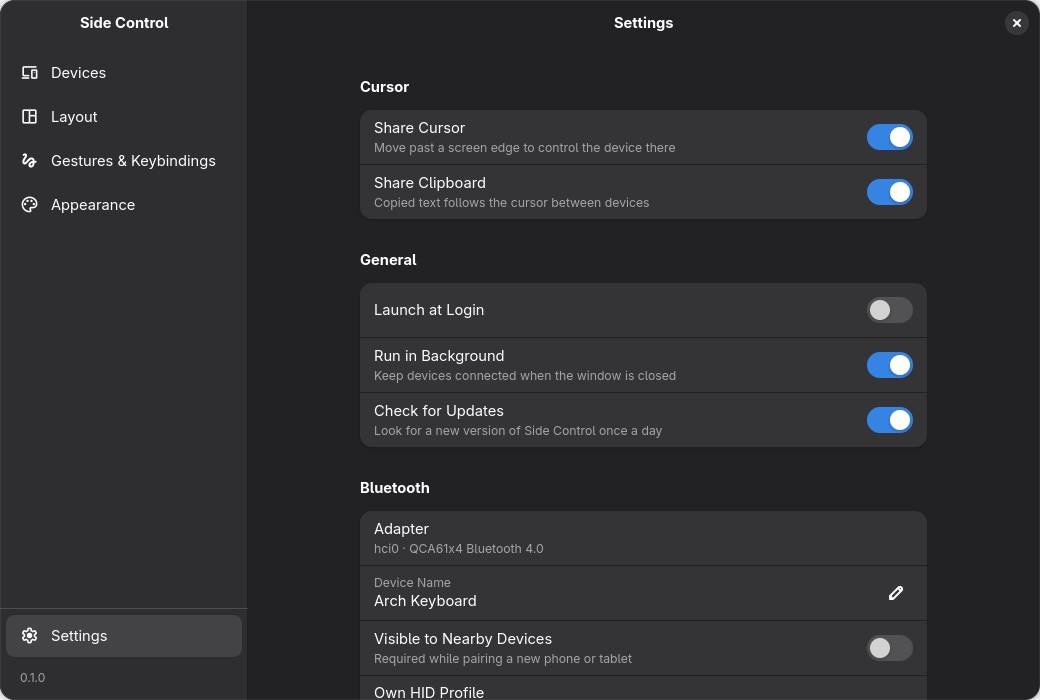
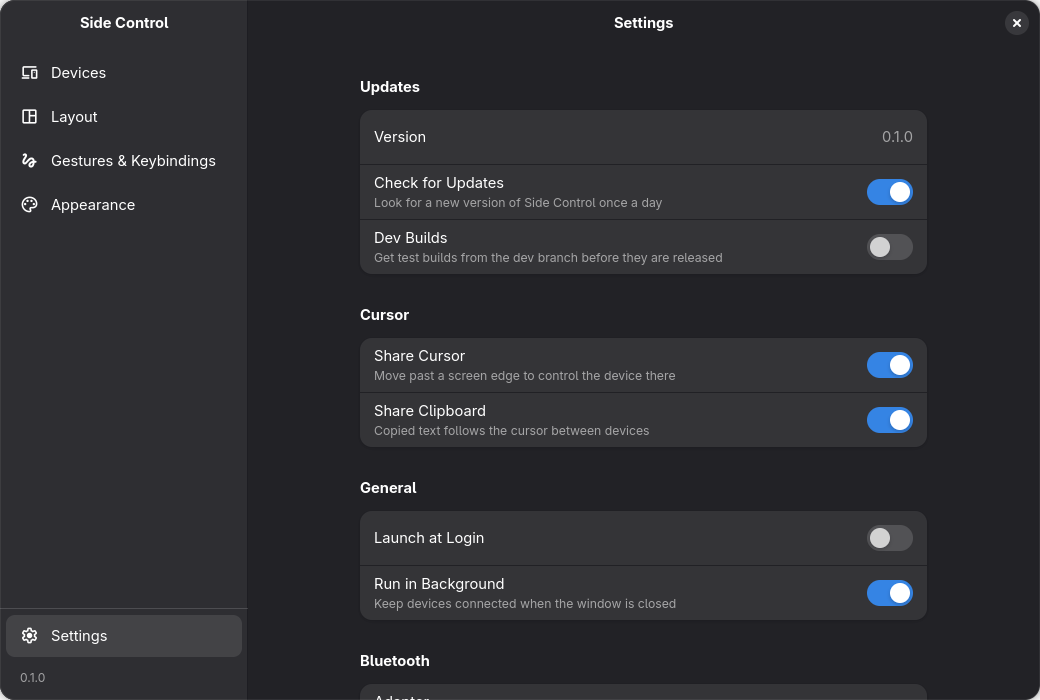
Put the update settings on top of Settings and add Dev Builds

diff --git a/side_control/app/update.py b/side_control/app/update.py
@@ -4,8 +4,9 @@
 The pure functions take what they work on and an `opener` instead of reaching for the network
 themselves, so tests can give them a fake release and a fake download. A version is "X.Y.Z" (stable)
 or "X.Y.Z-dev.<sha>" (the rolling dev channel, released under the `dev` tag, with the sha it was
-built from in the asset names). The mixin turns what the check finds into the window's banner and
-runs the download; the app checks at start and then once a day.
+built from in the asset names). The channel to check is the one the user chose in Settings ("Dev
+Builds"), not the one the running build came from. The mixin turns what the check finds into the
+window's banner and runs the download; the app checks at start and then once a day.
 """
 import collections
 import hashlib
@@ -92,18 +93,21 @@ def pick_assets(assets, suffix="-x86_64.AppImage"):
     return appimage, checksum
 
 
-def check_release(release, running, suffix="-x86_64.AppImage"):
-    """What `release` offers over the running version: an Update, or None when it is not newer."""
+def check_release(release, running, chosen, suffix="-x86_64.AppImage"):
+    """What `release` offers over the running version: an Update, or None when there is nothing to
+    take. The `chosen` channel's release is always worth offering while the running build came from
+    the other one (switching back), and only when it is newer within one channel."""
     asset, checksum = pick_assets(release.get("assets") or [], suffix)
     version = asset_version(asset["name"], suffix) if asset else None
-    if version is None or not is_newer(version, running):
+    if version is None or (chosen == channel(running) and not is_newer(version, running)):
         return None
     return Update(version, release.get("html_url") or RELEASES_PAGE, asset, checksum)
 
 
-def fetch_release(version, opener=urllib.request.urlopen):
-    """The GitHub release this version is updated from: the latest one, or the dev channel's."""
-    path = "/tags/dev" if channel(version) == "dev" else "/latest"
+def fetch_release(chosen, opener=urllib.request.urlopen):
+    """The GitHub release the `chosen` channel ("dev" or "stable") publishes: the dev tag's, or the
+    latest one."""
+    path = "/tags/dev" if chosen == "dev" else "/latest"
     with opener(urllib.request.Request(RELEASES_URL + path, headers=HEADERS)) as src:
         return json.load(src)
 
@@ -113,9 +117,10 @@ def fetch_text(url, opener=urllib.request.urlopen):
         return src.read().decode("utf-8", errors="replace")
 
 
-def find_update(version=VERSION, opener=urllib.request.urlopen):
-    """The update GitHub has for this Side Control, or None."""
-    return check_release(fetch_release(version, opener), version, f"-{platform.machine()}.AppImage")
+def find_update(chosen, version=VERSION, opener=urllib.request.urlopen):
+    """The update GitHub has for this Side Control on the `chosen` channel, or None."""
+    return check_release(fetch_release(chosen, opener), version, chosen,
+                         f"-{platform.machine()}.AppImage")
 
 
 # --- downloading and replacing the AppImage ---
@@ -209,22 +214,31 @@ class UpdateMixin:
         self.check_updates()
 
     def check_updates(self):
+        """Once a day, and when "Check for Updates" comes on: look now, if the checks are on."""
         if self.settings["check_updates"]:
-            threading.Thread(target=self._check_updates, daemon=True).start()
+            self.check_updates_now()
         return GLib.SOURCE_CONTINUE
 
-    def _check_updates(self):
+    def check_updates_now(self):
+        """Look on the chosen channel right away. Flipping "Dev Builds" comes here even while the
+        once-a-day checks are off: the user just asked, and the release to switch to should show up
+        at once."""
+        chosen = "dev" if self.settings["dev_builds"] else "stable"
+        threading.Thread(target=self._check_updates, args=(chosen,), daemon=True).start()
+
+    def _check_updates(self, chosen):
         try:
-            found = find_update(VERSION)
+            found = find_update(chosen)
         except (OSError, ValueError) as err:
             print(f"update check: {err}", file=sys.stderr)  # offline is nothing to make a fuss about
             return
-        if found:
-            GLib.idle_add(self.show_update, found)
+        GLib.idle_add(self.show_update, found)
 
     def show_update(self, update):
         """The banner: what is new, where its notes are, and the button to take it (or git pull)."""
-        if update is None:
+        if self.update_state in ("downloading", "installed"):  # an update is under way or waiting
+            return GLib.SOURCE_REMOVE                         # for its restart: leave the banner be
+        if update is None:  # the chosen channel has nothing to offer (Dev Builds was flipped)
             self.update_banner.set_revealed(False)
             return GLib.SOURCE_REMOVE
         self.update, self.update_state = update, "found"

diff --git a/tests/test_update.py b/tests/test_update.py
@@ -85,10 +85,16 @@ class Versions(unittest.TestCase):
 
 
 class Releases(unittest.TestCase):
-    def test_fetches_the_channel_s_release(self):
-        for version, tail in (("0.1.0", "/latest"), ("0.1.0-dev.abc", "/tags/dev")):
+    def test_fetches_the_chosen_channel_s_release(self):
+        for chosen, tail in (("stable", "/latest"), ("dev", "/tags/dev")):
             opener = FakeOpener({update.RELEASES_URL + tail: json.dumps(RELEASE).encode()})
-            self.assertEqual(update.fetch_release(version, opener)["html_url"], RELEASE["html_url"])
+            self.assertEqual(update.fetch_release(chosen, opener)["html_url"], RELEASE["html_url"])
+            self.assertEqual(opener.asked, [update.RELEASES_URL + tail])
+
+    def test_find_update_follows_the_chosen_channel(self):
+        for chosen, tail in (("stable", "/latest"), ("dev", "/tags/dev")):
+            opener = FakeOpener({update.RELEASES_URL + tail: json.dumps(RELEASE).encode()})
+            self.assertEqual(update.find_update(chosen, "0.1.0", opener).version, "0.2.0")
             self.assertEqual(opener.asked, [update.RELEASES_URL + tail])
 
     def test_picks_the_appimage_and_its_checksum(self):
@@ -109,20 +115,29 @@ class Releases(unittest.TestCase):
         self.assertIsNone(update.asset_version("Side_Control-0.2.0-x86_64.AppImage.zsync"))
 
     def test_check_release(self):
-        found = update.check_release(RELEASE, "0.1.0")
+        found = update.check_release(RELEASE, "0.1.0", "stable")
         self.assertEqual(found.version, "0.2.0")
         self.assertEqual(found.url, RELEASE["html_url"])
         self.assertEqual(found.asset["name"], "Side_Control-0.2.0-x86_64.AppImage")
-        self.assertIsNone(update.check_release(RELEASE, "0.2.0"))  # the same is not newer
-        self.assertIsNone(update.check_release(RELEASE, "0.3.0"))
-        self.assertIsNone(update.check_release({"assets": []}, "0.1.0"))
+        self.assertIsNone(update.check_release(RELEASE, "0.2.0", "stable"))  # the same is not newer
+        self.assertIsNone(update.check_release(RELEASE, "0.3.0", "stable"))
+        self.assertIsNone(update.check_release({"assets": []}, "0.1.0", "stable"))
 
     def test_check_release_on_the_dev_channel(self):
         dev, _opener = fake_release(b"12345678")
         dev["assets"][0]["name"] = "Side_Control-0.2.0-dev.bbb-x86_64.AppImage"
-        self.assertEqual(update.check_release(dev, "0.2.0-dev.aaa").version, "0.2.0-dev.bbb")
-        self.assertIsNone(update.check_release(dev, "0.2.0-dev.bbb"))
-        self.assertIsNone(update.check_release(dev, "0.3.0-dev.aaa"))  # a newer base stays newer
+        self.assertEqual(update.check_release(dev, "0.2.0-dev.aaa", "dev").version, "0.2.0-dev.bbb")
+        self.assertIsNone(update.check_release(dev, "0.2.0-dev.bbb", "dev"))
+        self.assertIsNone(update.check_release(dev, "0.3.0-dev.aaa", "dev"))  # a newer base stays newer
+
+    def test_check_release_offers_the_other_channel_to_switch_to(self):
+        """The chosen channel's release is offered even when it is not newer, so a dev build can
+        switch back to stable (and the other way round)."""
+        self.assertEqual(update.check_release(RELEASE, "0.3.0-dev.abc", "stable").version, "0.2.0")
+        dev, _opener = fake_release(b"12345678")
+        dev["assets"][0]["name"] = "Side_Control-0.1.0-dev.abc-x86_64.AppImage"
+        self.assertEqual(update.check_release(dev, "0.2.0", "dev").version, "0.1.0-dev.abc")
+        self.assertIsNone(update.check_release(dev, "0.2.0-dev.abc", "dev"))  # its own channel: not newer
 
 
 class Download(unittest.TestCase):
@@ -157,7 +172,7 @@ class Download(unittest.TestCase):
                 path = os.path.join(tmp, "Side_Control-0.2.0-x86_64.AppImage")
                 with open(path, "wb") as f:
                     f.write(b"the old one")
-                update.install(update.check_release(release, "0.1.0"), path, opener)
+                update.install(update.check_release(release, "0.1.0", "stable"), path, opener)
                 with open(path, "rb") as f:
                     self.assertEqual(f.read(), data)
                 with open(path + ".old", "rb") as f:  # kept until the new one has started once
@@ -176,7 +191,7 @@ class Download(unittest.TestCase):
                 with open(path, "wb") as f:
                     f.write(b"the old one")
                 with self.assertRaises(update.UpdateError):
-                    update.install(update.check_release(release, "0.1.0"), path, opener)
+                    update.install(update.check_release(release, "0.1.0", "stable"), path, opener)
                 with open(path, "rb") as f:
                     self.assertEqual(f.read(), b"the old one")  # the running file is left alone
                 self.assertFalse(os.path.exists(path + ".new"))

diff --git a/side_control/app/pages.py b/side_control/app/pages.py
@@ -176,6 +176,17 @@ class PagesMixin:
 
     def _settings_page(self):
         page = Adw.PreferencesPage()
+        updates = Adw.PreferencesGroup(title="Updates")
+        version = Adw.ActionRow(title="Version")
+        version.add_suffix(Gtk.Label(label=VERSION, css_classes=["dim-label"]))
+        updates.add(version)
+        updates.add(self.switch_row("check_updates", "Check for Updates",
+                                    "Look for a new version of Side Control once a day", self.check_updates))
+        updates.add(self.switch_row("dev_builds", "Dev Builds",
+                                    "Get test builds from the dev branch before they are released",
+                                    self.check_updates_now))
+        page.add(updates)
+
         cursor = Adw.PreferencesGroup(title="Cursor")
         self.share_row = self.switch_row("share_cursor", "Share Cursor",
                                          "Move past a screen edge to control the device there",
@@ -191,8 +202,6 @@ class PagesMixin:
         general.add(self.login_row)
         general.add(self.switch_row("run_in_background", "Run in Background",
                                     "Keep devices connected when the window is closed"))
-        general.add(self.switch_row("check_updates", "Check for Updates",
-                                    "Look for a new version of Side Control once a day", self.check_updates))
         page.add(general)
 
         bluetooth = Adw.PreferencesGroup(title="Bluetooth")
@@ -215,12 +224,9 @@ class PagesMixin:
         page.add(bluetooth)
 
         about = Adw.PreferencesGroup(title="About")
-        version = Adw.ActionRow(title="Version")
-        version.add_suffix(Gtk.Label(label=VERSION, css_classes=["dim-label"]))
         report = Adw.ActionRow(title="Report an Issue", activatable=True)
         report.add_suffix(Gtk.Image(icon_name="sc-open-in-new-symbolic"))
         report.connect("activated", self.on_report)
-        about.add(version)
         about.add(report)
         page.add(about)
         return page

diff --git a/side_control/app/config.py b/side_control/app/config.py
@@ -9,6 +9,8 @@ import sys
 
 from gi.repository import GLib
 
+from .. import VERSION
+
 
 APP_ID = APP_ICON = "io.github.sidecontrol.SideControl"  # data/icons/<APP_ICON>.svg, -symbolic for the tray
 ISSUES_URL = "https://github.com/Rakura-cloud/side-control/issues"  # where "Report an Issue" leads
@@ -44,13 +46,15 @@ CSS_PATH = os.path.join(os.path.dirname(os.path.abspath(__file__)), "style.css")
 DROPIN_DIR = "/etc/systemd/system/bluetooth.service.d"
 HID_DROPIN = os.path.join(DROPIN_DIR, "side-control-no-input.conf")
 
+# "dev_builds" starts on the channel the running build came from, so a dev build is not offered the
+# stable release as an update the first time it checks.
 DEFAULTS = {"share_cursor": True, "share_clipboard": True, "switch_delay_ms": 150, "corner_dead_zones": True,
             "match_speed": True, "three_finger_switch": True, "shake_to_locate": False, "tap_to_click": True,
             "mouse_natural_scroll": False,
             "indicator": "near", "indicator_within": 48, "indicator_names": True,
             "indicator_style": "Standard", "indicator_color": None, "hide_cursor": True,
             "run_in_background": True, "visible": False, "device_name": None, "adapter": None,
-            "check_updates": True, "hid_banner_dismissed": False}
+            "check_updates": True, "dev_builds": "-dev." in VERSION, "hid_banner_dismissed": False}
 # The edge indicator's styles: name -> (shape, thickness in px, opacity in %).
 INDICATOR_STYLES = {"Subtle": ("solid", 2, 60), "Standard": ("solid", 4, 100), "Bold": ("solid", 8, 100),
                     "Glow": ("glow", 6, 90)}

diff --git a/tools/screenshots.py b/tools/screenshots.py
@@ -74,7 +74,7 @@ from side_control.app.window import PAGES, Window  # noqa: E402
 from gi.repository import Gio, GLib, Gtk  # noqa: E402
 
 
-def offline(_version):
+def offline(*_args):
     raise OSError("the screenshots run without network")
 
 
@@ -108,7 +108,7 @@ def script(win):
               lambda: win.ask_forget("AA:00:00:00:00:02"), lambda: shot(win, "forget"), lambda: close_dialog(win),
               lambda: win.show_pair(), lambda: shot(win, "pair"), lambda: close_dialog(win),
               lambda: win.show_page(0),
-              lambda: win.show_update(update.check_release(FAKE_RELEASE, update.VERSION)),
+              lambda: win.show_update(update.check_release(FAKE_RELEASE, update.VERSION, "stable")),
               lambda: shot(win, "update"),
               lambda: print("sent to the backend:", *received, sep="\n  "),
               lambda: win.get_application().quit()]

diff --git a/README.md b/README.md
@@ -38,7 +38,8 @@ the phone or tablet: it sees an ordinary Bluetooth keyboard and mouse.
 - **Tray icon.** Shows where the cursor is and switches between devices (StatusNotifierItem, e.g. Waybar).
 - **Pairing and device info.** Pair from the app; see each device's OS version and battery.
 - **Updates.** Side Control looks for a new version on GitHub once a day and says so in a banner; an
-  AppImage downloads it in place and restarts into it.
+  AppImage downloads it in place and restarts into it. Turn on **Dev Builds** in Settings to get test
+  builds from the dev branch before they are released.
 
 | | |
 |---|---|
@@ -63,8 +64,9 @@ still needs what Side Control talks to: BlueZ, polkit, and Hyprland for edge han
 
 #### Dev build
 
-To try fixes before they are released, download `Side_Control-<version>-dev.<commit>-x86_64.AppImage`
-from the [dev pre-release](https://github.com/Rakura-cloud/side-control/releases/tag/dev), rebuilt on
+To try fixes before they are released, turn on **Dev Builds** in Settings and let the app offer the
+dev branch's builds, or download `Side_Control-<version>-dev.<commit>-x86_64.AppImage` from the
+[dev pre-release](https://github.com/Rakura-cloud/side-control/releases/tag/dev), rebuilt on
 every change to the `dev` branch. Settings shows which commit it is.
 
 > **Warning:** dev builds are untested between releases and can break, including the input takeover
